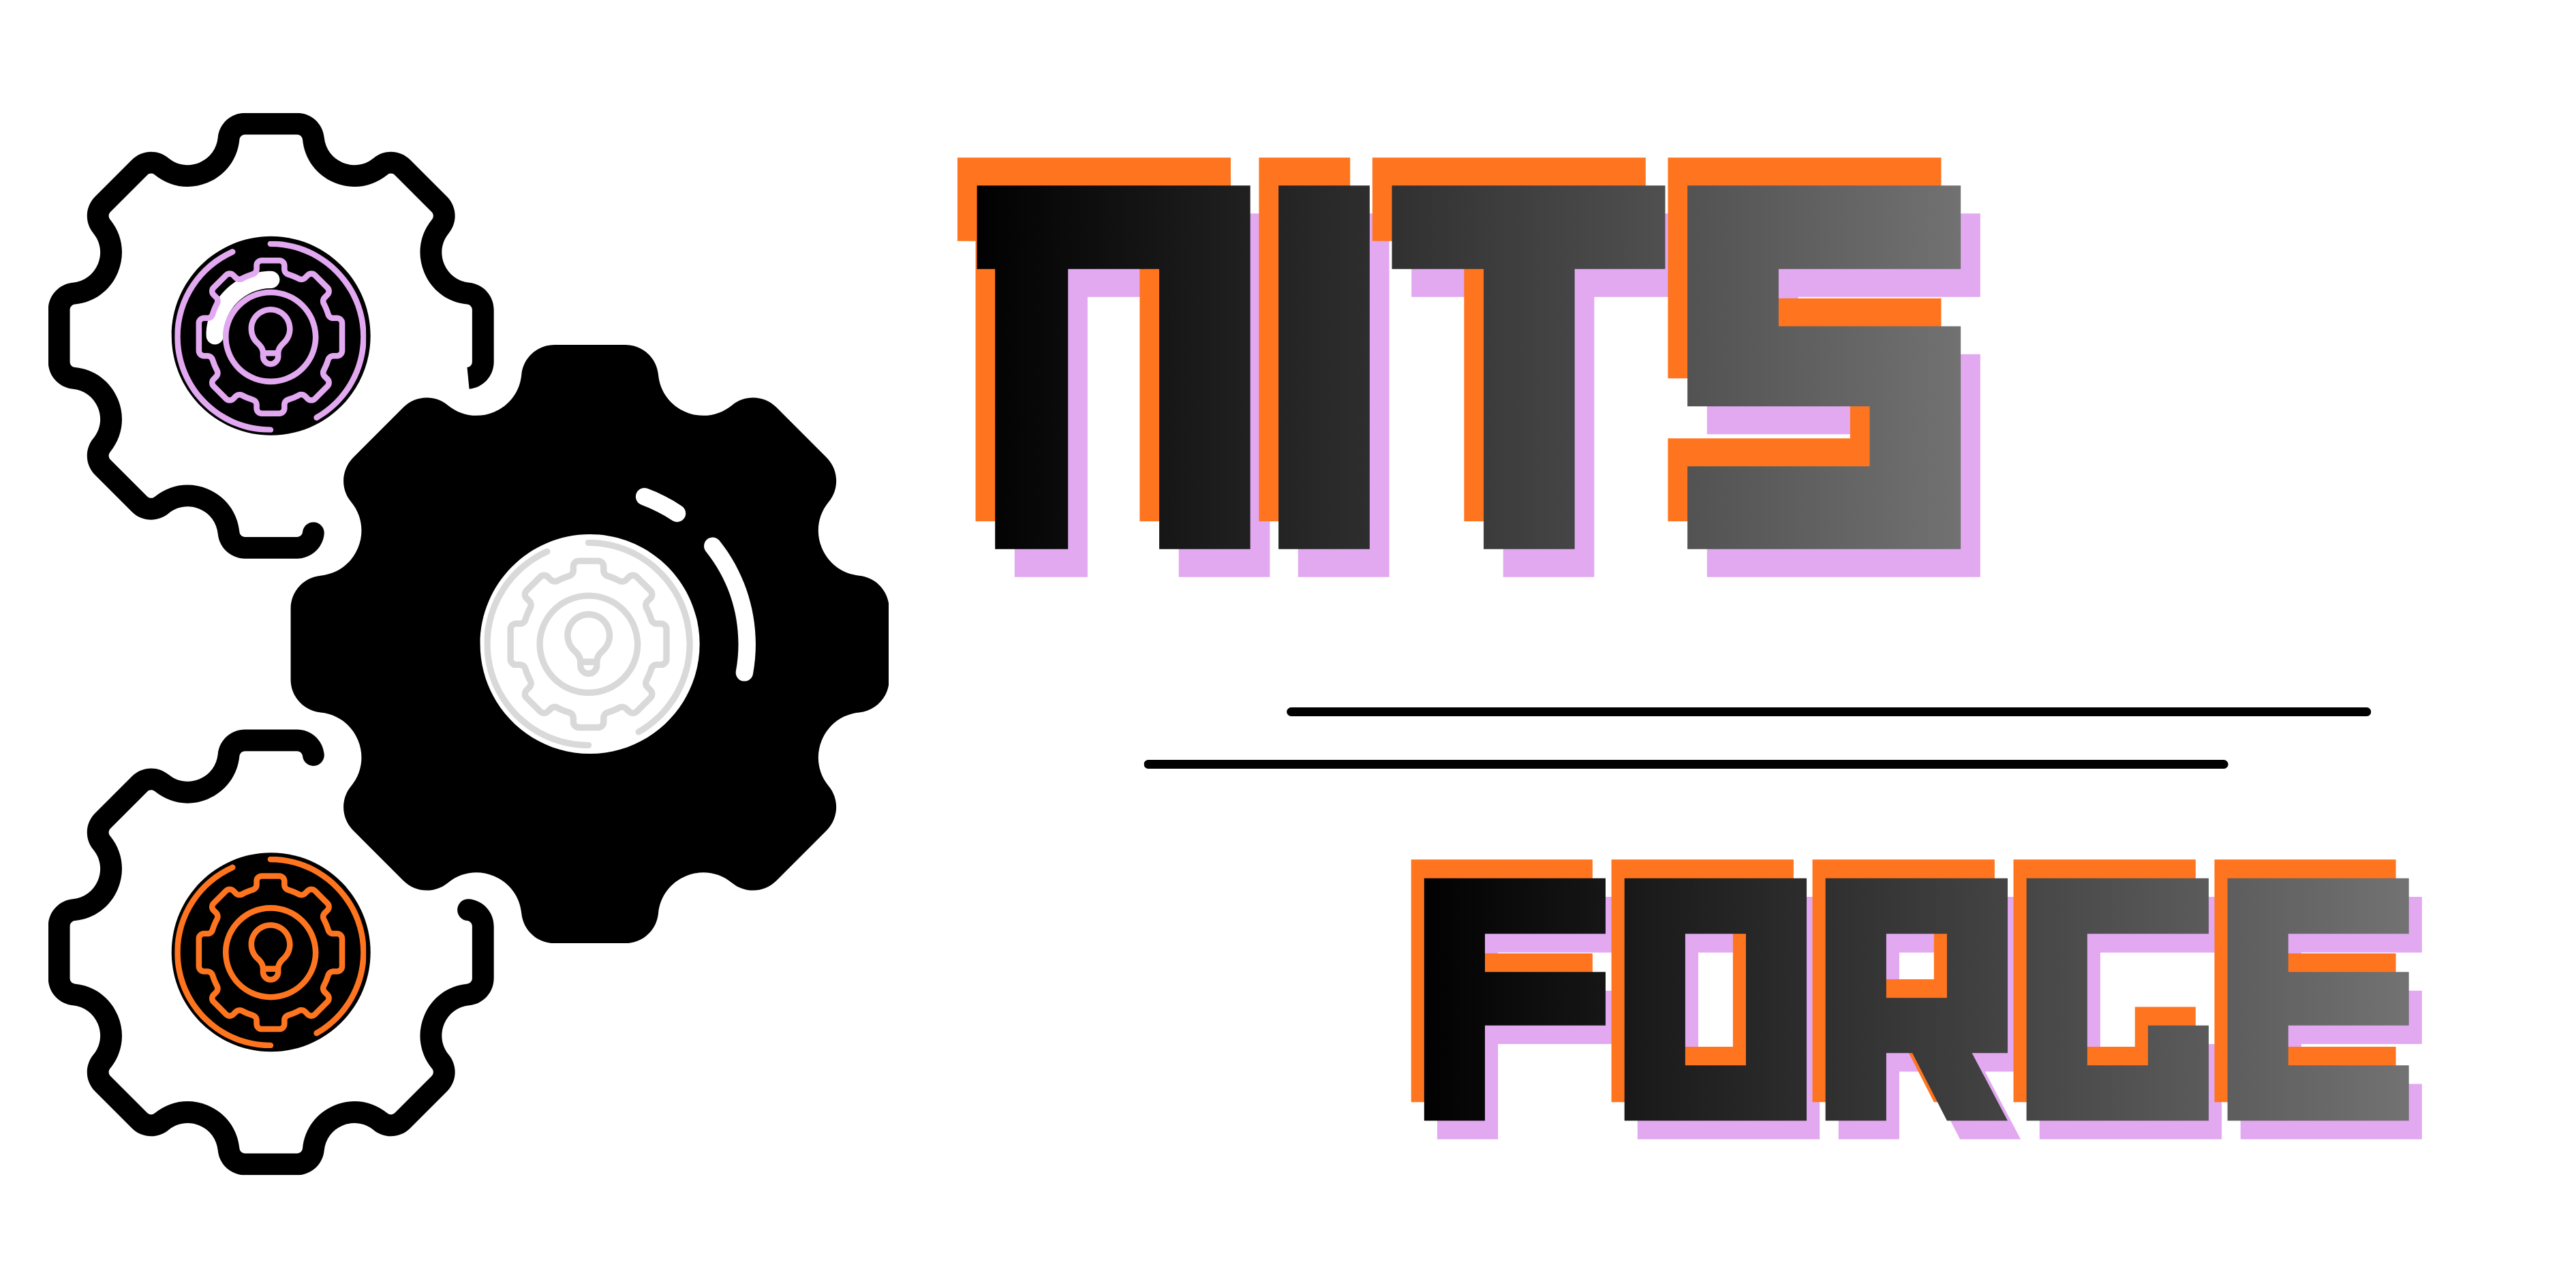
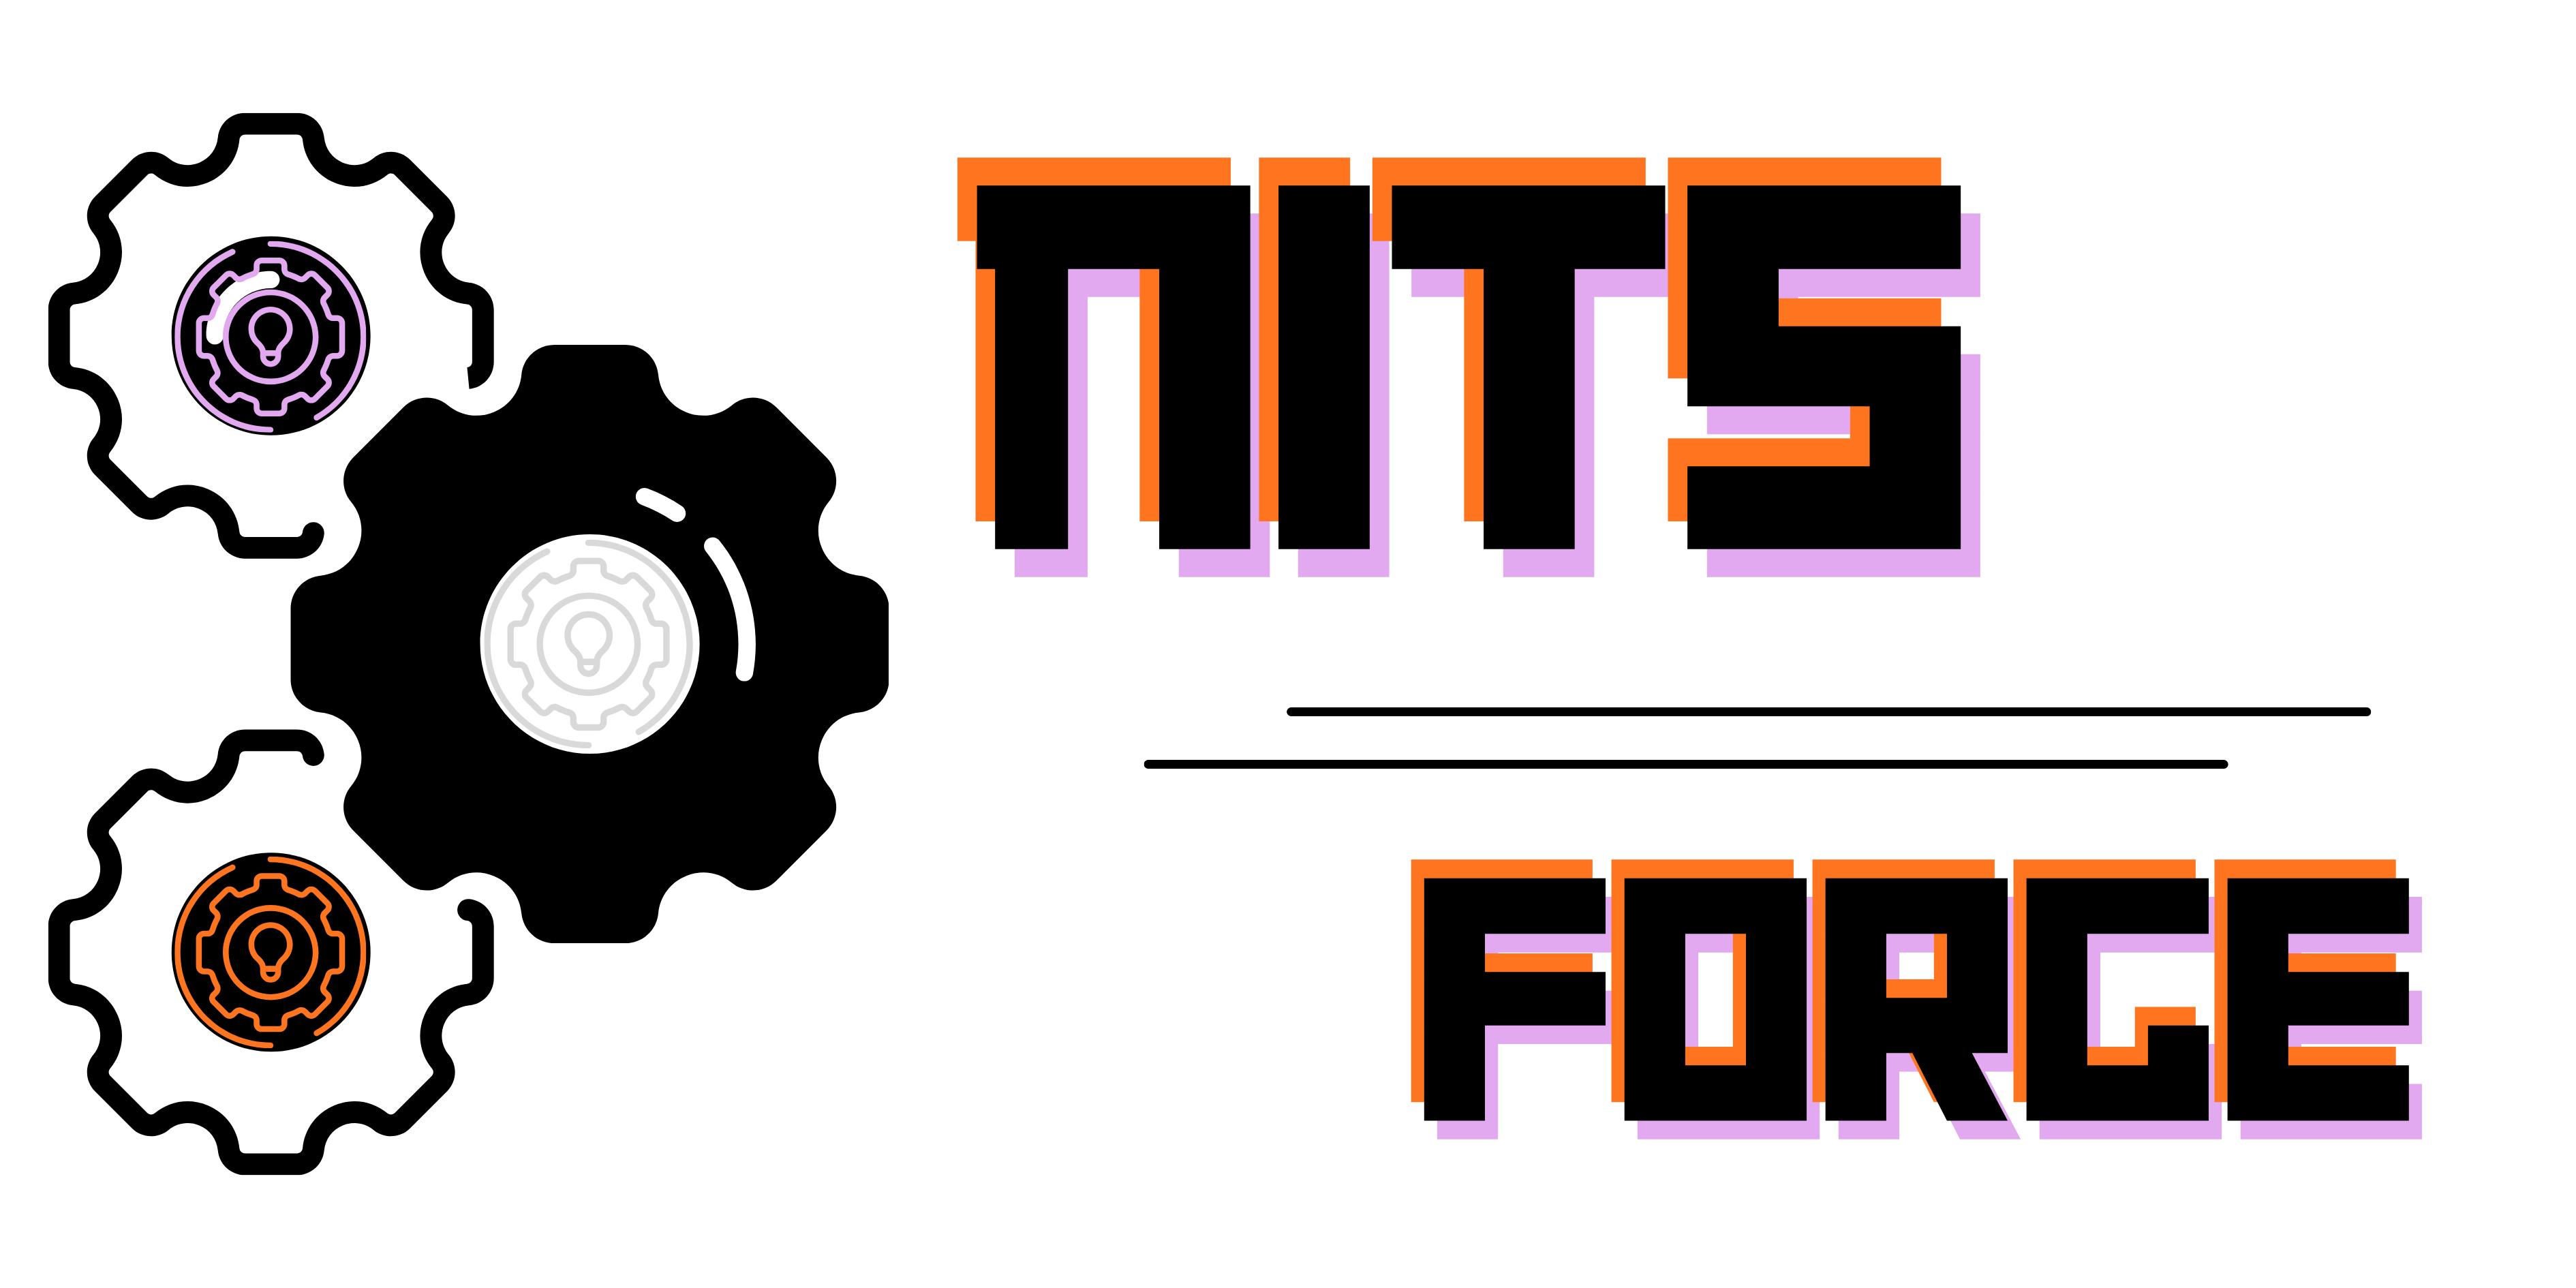
chore(ui): premium hero section landing page

Changed region(s): [[0.437, 0.1249, 0.7804, 0.437], [0.6243, 0.6556, 0.9365, 0.8741]]

diff --git a/frontend/src/components/landing/HeroSection.tsx b/frontend/src/components/landing/HeroSection.tsx
@@ -1,8 +1,74 @@
 // src/components/landing/HeroSection.tsx
-import { motion } from 'framer-motion';
+import { useState, useEffect, useRef } from 'react';
+import { motion, useInView, type Variants } from 'framer-motion';
 import { ArrowDown } from 'lucide-react';
+import { useTheme } from '../../store/ThemeContext';
+
+// Added HackerText for the glitch effect on the name
+const HackerText = ({ text }: { text: string }) => {
+  const [displayText, setDisplayText] = useState(text);
+  const ref = useRef(null);
+
+  // Trigger only once when it comes into view to prevent annoying re-triggers
+  const isInView = useInView(ref, { once: true, margin: "-50px" });
+
+  useEffect(() => {
+    if (!isInView) {
+      setDisplayText(text);
+      return;
+    }
+
+    let iteration = 0;
+    // Use lowercase and numbers to minimize character width variance
+    const letters = "abcdefghijklmnopqrstuvwxyz0123456789";
+
+    // Dynamically calculate speed so it always finishes in ~600ms (20 steps @ 30ms)
+    const stepSize = Math.max(1, text.length / 100);
+
+    const interval = setInterval(() => {
+      setDisplayText(
+        text
+          .split("")
+          .map((char, index) => {
+            // Preserve the actual character if we've iterated past it
+            if (index < iteration) return text[index];
+            // CRITICAL: Preserve spaces so word wrapping doesn't break and cause bouncing!
+            if (char === " ") return " ";
+            return letters[Math.floor(Math.random() * letters.length)];
+          })
+          .join("")
+      );
+
+      if (iteration >= text.length) clearInterval(interval);
+      iteration += stepSize;
+    }, 30);
+
+    return () => clearInterval(interval);
+  }, [isInView, text]);
+
+  return (
+    <span ref={ref}>
+      {displayText}
+    </span>
+  );
+};
 
 export function HeroSection() {
+  const { theme, setTheme } = useTheme();
+  const isDarkTheme = ['midnight', 'forest', 'obsidian'].includes(theme);
+  const bannerSrc = isDarkTheme ? '/NITSForge-landinghero-light.png' : '/NITSForge-landinghero-dark.png';
+
+  const THEMES = [
+    // Light Themes
+    { id: 'ember', primary: '#F97316', bg: '#F9F7F4' },
+    { id: 'sakura', primary: '#DB2777', bg: '#FFF1F2' },
+    { id: 'arctic', primary: '#0EA5E9', bg: '#F0F9FF' },
+    // Dark Themes
+    { id: 'midnight', primary: '#3B82F6', bg: '#0F172A' },
+    { id: 'forest', primary: '#22C55E', bg: '#1C1917' },
+    { id: 'obsidian', primary: '#F59E0B', bg: '#000000' },
+  ] as const;
+
   const scrollTo = (id: string) => {
     const element = document.getElementById(id);
     if (element) {
@@ -10,49 +76,96 @@ export function HeroSection() {
     }
   };
 
+  const containerVariants: Variants = {
+    hidden: { opacity: 0 },
+    visible: {
+      opacity: 1,
+      transition: { staggerChildren: 0.15, delayChildren: 0.1 }
+    }
+  };
+
+  const itemVariants: Variants = {
+    hidden: { opacity: 0, y: 30 },
+    visible: { opacity: 1, y: 0, transition: { type: "spring", stiffness: 300, damping: 24 } }
+  };
+
+  const bannerVariants: Variants = {
+    hidden: { opacity: 0, scale: 0.95, y: 20 },
+    visible: { opacity: 1, scale: 1, y: 0, transition: { type: "spring", stiffness: 200, damping: 20, delay: 0.2 } }
+  };
+
   return (
-    <section id="hero" className="relative min-h-[90vh] flex flex-col justify-center px-6 lg:px-16 py-20 overflow-hidden">
+    <section id="hero" className="relative min-h-[90vh] flex flex-col justify-center items-center px-6 lg:px-16 py-20 overflow-hidden text-center">
       {/* Background Ambient Glow */}
-      <div className="absolute top-1/2 right-0 -translate-y-1/2 w-[600px] h-[600px] bg-primary opacity-5 blur-[120px] pointer-events-none rounded-full" />
-      
-      <motion.div 
-        initial={{ opacity: 0, y: 30 }}
-        animate={{ opacity: 1, y: 0 }}
-        transition={{ duration: 0.8, ease: "easeOut" }}
-        className="max-w-3xl z-10"
+      <div className="absolute top-1/2 left-1/2 -translate-x-1/2 -translate-y-1/2 w-[600px] h-[600px] bg-primary opacity-5 blur-[120px] pointer-events-none rounded-full" />
+
+      <motion.div
+        initial="hidden"
+        whileInView="visible"
+        viewport={{ once: false, margin: "-100px" }}
+        variants={containerVariants}
+        className="max-w-5xl z-10 flex flex-col items-center"
       >
-        <div className="inline-block px-4 py-1.5 rounded-full border border-primary/30 bg-primary/10 text-primary font-orbitron text-xs font-bold tracking-wider mb-6">
+        <motion.div variants={itemVariants} className="inline-block px-4 py-1.5 rounded-full border border-primary/30 bg-primary/10 text-primary font-orbitron text-xs font-bold tracking-wider mb-6">
           V2.0 Core Engine Active
-        </div>
-        
-        <h1 className="text-5xl lg:text-7xl font-display font-bold leading-tight tracking-tighter mb-6 text-text-main">
-          Master the PhilNITS FE.<br />
-          <span className="text-primary italic pr-2">Without the burnout.</span>
-        </h1>
-        
-        <p className="text-lg text-text-muted max-w-xl mb-10 leading-relaxed">
-          The most advanced, AI-driven preparation platform for the Philippine National IT Standards exam. Practice intelligently, track your mastery, and let Forge guide your learning.
-        </p>
+        </motion.div>
 
-        {/* Placeholder for Hand-drawn Banner */}
-        <div className="relative w-full aspect-[21/9] md:aspect-[3/1] bg-surface-2 border-2 border-dashed border-borderline rounded-2xl flex items-center justify-center mb-12 group overflow-hidden">
-          <div className="text-center">
-            <p className="text-text-muted font-orbitron font-bold tracking-widest text-sm mb-2 group-hover:text-primary transition-colors">
-              [ HAND-DRAWN BANNER PLACEHOLDER ]
-            </p>
-            <p className="text-xs text-text-muted opacity-60">
-              Recommended Size: 1200x400 px or 1920x1080 px
-            </p>
-          </div>
-        </div>
+        <motion.h1 variants={itemVariants} className="text-4xl lg:text-7xl font-display font-bold leading-tight tracking-tighter mb-6 text-text-main">
+          Master the PhilNITS Exams.
+          <br />
+          <span className="text-primary italic">Without the burnout.</span>
+        </motion.h1>
 
-        <button 
+        <motion.p variants={itemVariants} className="text-lg text-text-muted max-w-xl mb-12 leading-relaxed h-[160px] sm:h-[120px] lg:h-[90px]">
+          <HackerText text="The most advanced, AI-driven preparation platform for the Philippine National IT Standards exam. Practice intelligently, track your mastery, and let Forge guide your learning." />
+        </motion.p>
+
+        {/* Dynamic Banner */}
+        <motion.div
+          variants={bannerVariants}
+          className="relative w-full max-w-4xl rounded-2xl flex items-center justify-center mb-16 group overflow-hidden transition-transform duration-700 hover:scale-[1.02] cursor-pointer"
           onClick={() => scrollTo('features')}
-          className="flex items-center gap-2 text-text-muted hover:text-primary transition-colors animate-bounce"
+        >
+          <img
+            src={bannerSrc}
+            alt="NITSForge Hero Banner"
+            className="w-full h-auto object-contain relative z-10"
+          />
+          {/* Shine effect overlay */}
+          <div className="absolute inset-0 z-20 pointer-events-none opacity-0 group-hover:opacity-100 transition-opacity duration-300 overflow-hidden rounded-2xl">
+            <div className="absolute inset-0 -translate-x-full bg-gradient-to-r from-transparent via-white/20 to-transparent group-hover:animate-shine w-1/2 h-full skew-x-12" />
+          </div>
+        </motion.div>
+
+        {/* Theme Selector Dock */}
+        <motion.div variants={itemVariants} className="flex gap-5 sm:gap-8 items-center justify-center mb-16 p-3 sm:p-4 rounded-full bg-surface-2/40 backdrop-blur-xl border border-borderline shadow-xl">
+          {THEMES.map((t) => {
+            const isActive = theme === t.id;
+            return (
+              <motion.button
+                key={t.id}
+                onClick={() => setTheme(t.id as any)}
+                whileHover={{ scale: 1.15, y: -2 }}
+                whileTap={{ scale: 0.9 }}
+                className={`relative w-10 h-10 sm:w-12 sm:h-12 rounded-full cursor-pointer focus:outline-none transition-all duration-300
+                  ${isActive ? 'ring-2 ring-offset-4 ring-primary ring-offset-surface shadow-lg scale-110' : 'ring-1 ring-borderline/50 hover:ring-primary/50 shadow-md'}
+                `}
+                style={{ background: `linear-gradient(135deg, ${t.bg} 0%, ${t.bg} 50%, ${t.primary} 50%, ${t.primary} 100%)` }}
+                aria-label={`Select ${t.id} theme`}
+                title={t.id.charAt(0).toUpperCase() + t.id.slice(1)}
+              />
+            );
+          })}
+        </motion.div>
+
+        <motion.button
+          variants={itemVariants}
+          onClick={() => scrollTo('features')}
+          className="flex flex-col items-center gap-2 text-text-muted hover:text-primary transition-colors animate-bounce"
         >
           <span className="text-sm font-medium uppercase tracking-widest">Scroll to explore</span>
           <ArrowDown className="w-4 h-4" />
-        </button>
+        </motion.button>
       </motion.div>
     </section>
   );